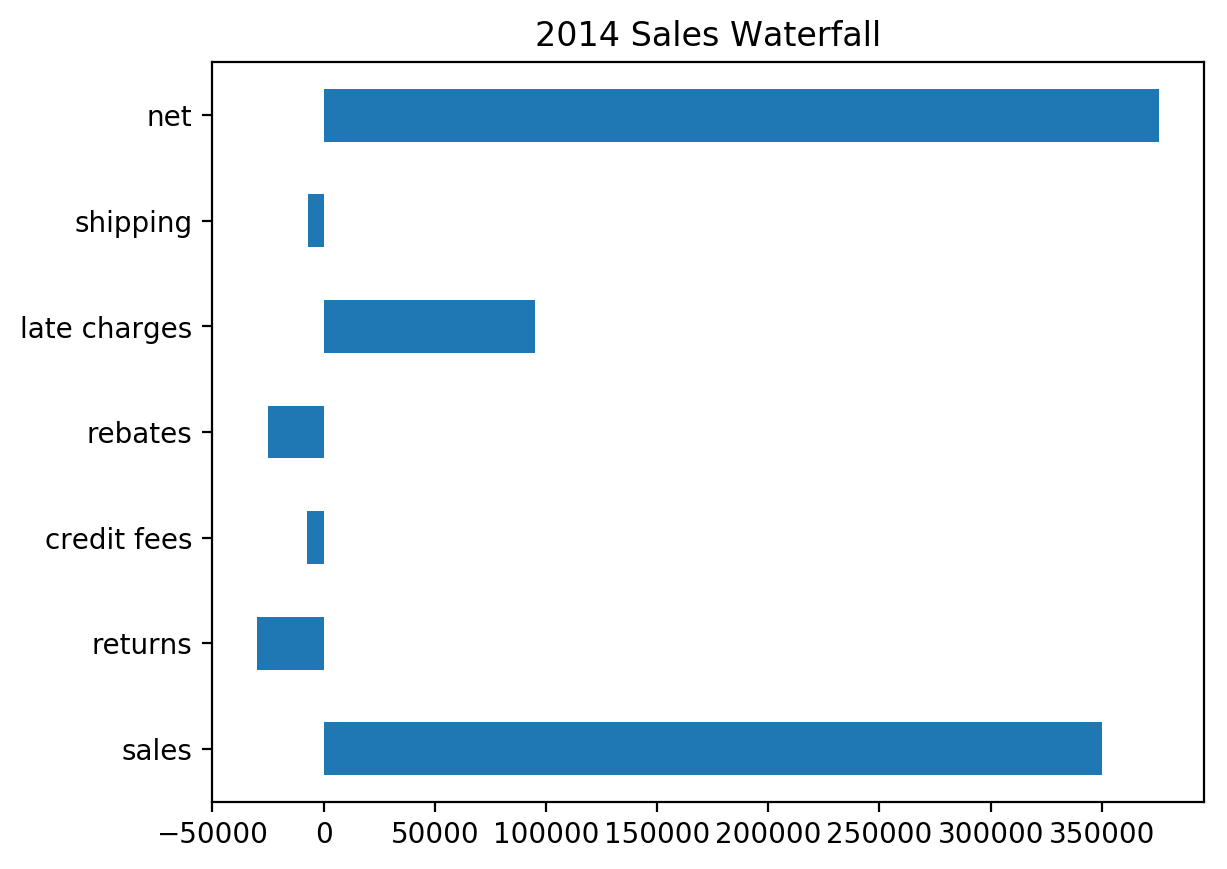
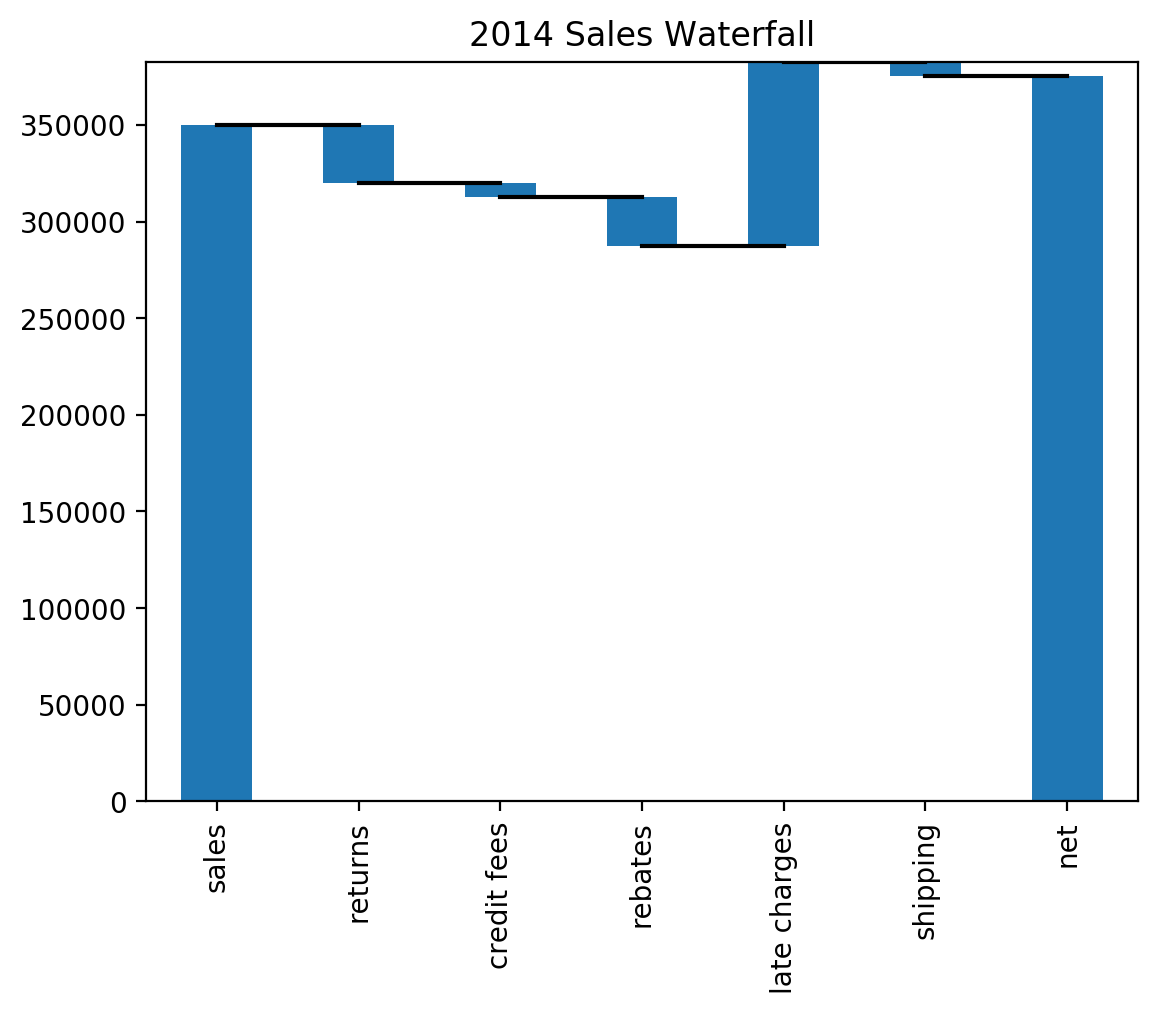
gna gives it

diff --git a/PythonTest/plots/ShowMHcrx.py b/PythonTest/plots/ShowMHcrx.py
@@ -15,4 +15,5 @@ blank.loc["net"] = 0
 my_plot = trans.plot(kind='barh', stacked=True, bottom=blank,
                      legend=None, title="2014 Sales Waterfall")
 my_plot.plot(step.index, step.values, 'k')
-my_plot.get_figure().savefig("waterfall.png", dpi=200, bbox_inches='tight')
+# my_plot.get_figure().savefig("waterfall.png", dpi=200, bbox_inches='tight')
+plt.show()

diff --git a/PythonTest/plots/ShowMHimpact.py b/PythonTest/plots/ShowMHimpact.py
@@ -13,4 +13,5 @@ step[1::3] = np.nan
 blank.loc["net"] = 0
 my_plot = trans.plot(kind='bar', stacked=True, bottom=blank,legend=None, title="2014 Sales Waterfall")
 my_plot.plot(step.index, step.values,'k')
-my_plot.get_figure().savefig("waterfall.png",dpi=200,bbox_inches='tight')
+# my_plot.get_figure().savefig("waterfall.png",dpi=200,bbox_inches='tight')
+plt.show()
